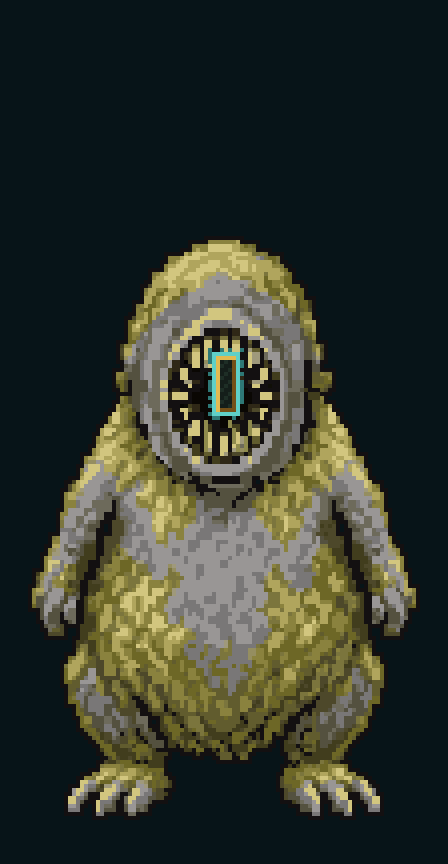
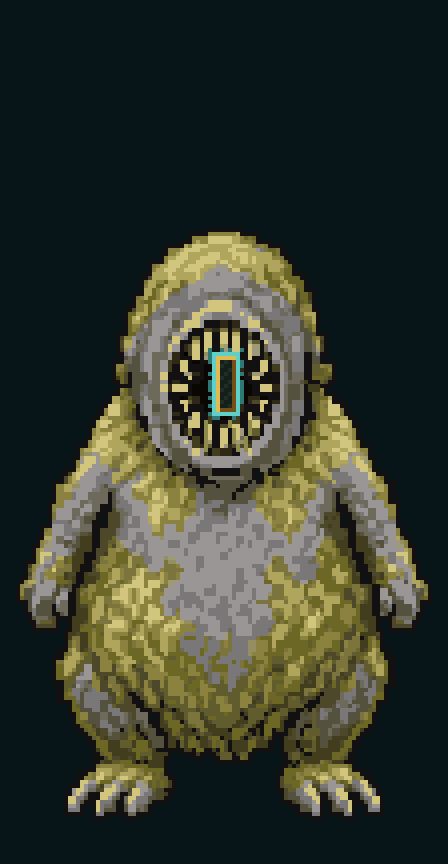
Coordinate Spawn shoulder and abdomen breathing

Changed region(s): [[0.0312, 0.25, 0.9688, 0.9062]]

diff --git a/tools/build_spawn_sheets.py b/tools/build_spawn_sheets.py
@@ -58,32 +58,38 @@ def native_base() -> Image.Image:
     return palette
 
 
-def belly_pose(base: Image.Image, breathe: int, crouch: int) -> Image.Image:
-    """Whole-row integer movement keeps arms joined and feet planted."""
+def body_pose(base: Image.Image, breathe: int, crouch: int) -> Image.Image:
+    """Deform the entire silhouette as one grounded key pose.
+
+    The head and shoulders rise with the inhalation, while the shoulders
+    broaden and the belly swells. During the wind-up, all three compress
+    together. The knees transition into unmoving feet at ground contact.
+    """
     result = Image.new("RGBA", (W, H))
     for y in range(H):
-        # A slow swelling centered on the abdomen, fading toward shoulders
-        # and feet. The cast compresses the same area by two native pixels.
-        weight = max(0.0, 1.0 - abs(y - 110) / 50.0)
-        reach = round((breathe - crouch) * weight)
+        upper_weight = min(1.0, max(0.0, (150 - y) / 40.0))
+        shoulder_weight = max(0.0, 1.0 - abs(y - 78) / 41.0)
+        belly_weight = max(0.0, 1.0 - abs(y - 111) / 43.0)
+        vertical = round((0.8 * breathe - 1.2 * crouch) * upper_weight)
+        widen = round((0.75 * breathe - 0.45 * crouch) * shoulder_weight
+                      + (1.25 * breathe - 1.0 * crouch) * belly_weight)
+        source_y = min(H - 1, max(0, y + vertical))
         for x in range(W):
-            if not reach or not 66 <= y <= 151:
-                result.putpixel((x, y), base.getpixel((x, y)))
-                continue
-            sample_x = round(56 + (x - 56) * (1.0 - reach / 55.0))
+            sample_x = round(56 + (x - 56) * (1.0 - widen / 55.0))
             if 0 <= sample_x < W:
-                result.putpixel((x, y), base.getpixel((sample_x, y)))
+                result.putpixel((x, y), base.getpixel((sample_x, source_y)))
     return result
 
 
-def open_maw(image: Image.Image, base: Image.Image, extra: int) -> None:
+def open_maw(image: Image.Image, pose: Image.Image,
+             extra: int, head_shift: int) -> None:
     """Open the existing shaded mouth without replacing its rim or teeth."""
     if not extra:
         return
     # The oval includes the original cheek and tooth shading. Masking its
     # outer edge avoids the rectangular cut-out visible in a scaled patch.
-    left, top, right, bottom = 37, 27, 76, 70
-    patch = base.crop((left, top, right, bottom))
+    left, top, right, bottom = 37, 27 + head_shift, 76, 70 + head_shift
+    patch = pose.crop((left, top, right, bottom))
     width, height = patch.size
     enlarged = patch.resize((width + extra * 2, height + extra * 2),
                             Image.Resampling.NEAREST)
@@ -124,15 +130,16 @@ def main() -> None:
     base = native_base()
     shared = Image.open(PIXELS / "fanatic_fx_1.png").convert("RGBA")
     # Two uneven breaths, then a held compression before the mouth snaps open.
-    breaths = [0, 1, 2, 1, 0, 0, 0, 0, 0, 0, 0, 0, 0]
+    breaths = [0, 1, 2, 1, 0, 0, 0, 0, 2, 1, 1, 0, 0]
     crouches = [0, 0, 0, 0, 0, 1, 2, 2, 0, 0, 0, 0, 0]
     openings = [0, 0, 0, 0, 0, 0, 1, 3, 5, 5, 3, 1, 0]
     body_sheet = Image.new("RGBA", (W * FRAMES, H))
     fx_sheet = Image.new("RGBA", (W * FRAMES, H + TOP))
     previews = []
     for frame in range(FRAMES):
-        body = belly_pose(base, breaths[frame], crouches[frame])
-        open_maw(body, base, openings[frame])
+        body = body_pose(base, breaths[frame], crouches[frame])
+        head_shift = -round(0.8 * breaths[frame] - 1.2 * crouches[frame])
+        open_maw(body, body.copy(), openings[frame], head_shift)
         body_sheet.alpha_composite(body, (frame * W, 0))
         vfx = effect(frame, shared)
         fx_sheet.alpha_composite(vfx, (frame * W, 0))
@@ -152,7 +159,7 @@ def main() -> None:
            for p in previews]
     gif[0].save(SOURCE / "spawn_preview.gif", save_all=True,
                 append_images=gif[1:],
-                duration=[240, 210, 260, 220, 180, 170, 230,
+                duration=[320, 320, 320, 320, 180, 170, 230,
                           140, 220, 180, 170, 190, 650],
                 loop=0, optimize=False)
 
